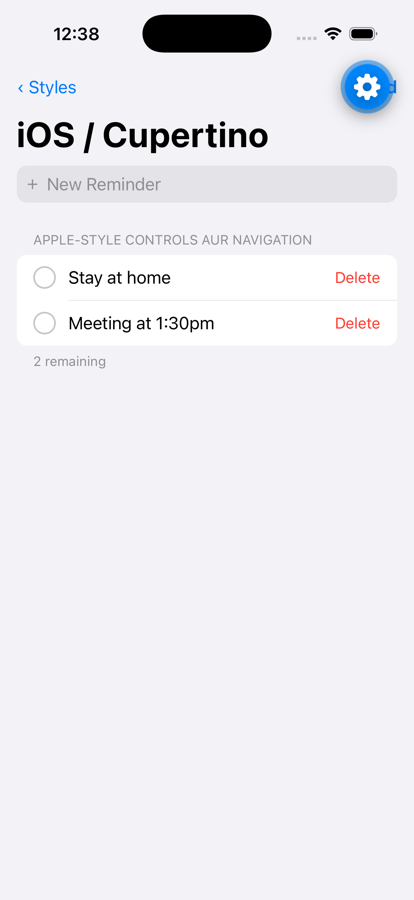
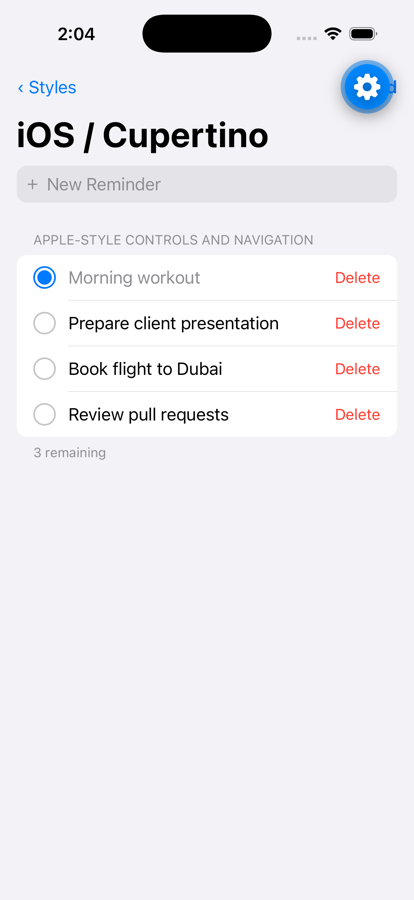
Translate code and UI text to English, refresh screenshots
Rewrite all code comments, UI strings and error messages in English, rename the app and packages, retake README screenshots with neutral demo data, and add a keyword-rich README header.

diff --git a/backend/server.js b/backend/server.js
@@ -1,20 +1,20 @@
 // API SERVER (Express)
-// Kaam: frontend se HTTP request aati hai -> yahan route match hota hai -> db.js se data -> JSON wapis.
+// Flow: the client sends an HTTP request -> a route matches it -> db.js reads/writes data -> JSON response.
 import express from 'express';
 import cors from 'cors';
 import * as db from './db.js';
 
 const app = express();
-app.use(cors());          // web frontend ko doosre port se call karne ki ijazat
-app.use(express.json());  // request body ka JSON parse karke req.body mein daal deta hai
+app.use(cors());          // allow web clients on other origins to call the API
+app.use(express.json());  // parse JSON request bodies into req.body
 
-// Har request ko terminal mein print karo — seekhte waqt bohat help karta hai
+// Log every request (handy while developing)
 app.use((req, _res, next) => {
   console.log(req.method, req.url, req.body ?? '');
   next();
 });
 
-// REST API: aik "resource" (todos) + HTTP methods = CRUD
+// REST API: one resource (todos) + HTTP methods = CRUD
 // GET    /todos      -> Read all
 // POST   /todos      -> Create
 // PATCH  /todos/:id  -> Update
@@ -26,24 +26,24 @@ app.get('/todos', (_req, res) => {
 
 app.post('/todos', (req, res) => {
   const title = req.body?.title?.trim();
-  if (!title) return res.status(400).json({ error: 'title zaroori hai' });
+  if (!title) return res.status(400).json({ error: 'title is required' });
   res.status(201).json(db.createTodo(title));
 });
 
 app.patch('/todos/:id', (req, res) => {
   const todo = db.updateTodo(Number(req.params.id), req.body ?? {});
-  if (!todo) return res.status(404).json({ error: 'todo nahi mila' });
+  if (!todo) return res.status(404).json({ error: 'todo not found' });
   res.json(todo);
 });
 
 app.delete('/todos/:id', (req, res) => {
   const ok = db.deleteTodo(Number(req.params.id));
-  if (!ok) return res.status(404).json({ error: 'todo nahi mila' });
+  if (!ok) return res.status(404).json({ error: 'todo not found' });
   res.status(204).end();
 });
 
 const PORT = process.env.PORT || 4000;
-// '0.0.0.0' taa ke same WiFi par phone (Expo Go) bhi connect kar sake
+// Bind to 0.0.0.0 so a phone on the same Wi-Fi (Expo Go) can connect
 app.listen(PORT, '0.0.0.0', () => {
-  console.log(`API chal rahi hai: http://localhost:${PORT}`);
+  console.log(`API running at http://localhost:${PORT}`);
 });

diff --git a/mobile/src/designs/index.js b/mobile/src/designs/index.js
@@ -1,4 +1,4 @@
-// Saare designs ki list — naya design add karna ho to file banao aur yahan aik line jor do
+// All available designs. To add one, create a file in this folder and add a line here.
 import Minimalist from './Minimalist';
 import Material from './Material';
 import Cupertino from './Cupertino';
@@ -9,12 +9,12 @@ import Neobrutalism from './Neobrutalism';
 import Skeuomorphism from './Skeuomorphism';
 
 export const DESIGNS = [
-  { id: 'minimalist', name: 'Minimalist', tagline: 'Simple, clean, kam elements', swatch: ['#FFFFFF', '#111111'], Component: Minimalist },
+  { id: 'minimalist', name: 'Minimalist', tagline: 'Simple, clean, fewer elements', swatch: ['#FFFFFF', '#111111'], Component: Minimalist },
   { id: 'material', name: 'Material Design', tagline: 'Google-style components', swatch: ['#6750A4', '#EADDFF'], Component: Material },
-  { id: 'cupertino', name: 'iOS / Cupertino', tagline: 'Apple-style controls aur navigation', swatch: ['#007AFF', '#F2F2F7'], Component: Cupertino },
+  { id: 'cupertino', name: 'iOS / Cupertino', tagline: 'Apple-style controls and navigation', swatch: ['#007AFF', '#F2F2F7'], Component: Cupertino },
   { id: 'glassmorphism', name: 'Glassmorphism', tagline: 'Transparent, frosted-glass effects', swatch: ['#8B5CF6', '#F472B6'], Component: Glassmorphism },
-  { id: 'neumorphism', name: 'Neumorphism', tagline: 'Soft, raised ya inset elements', swatch: ['#E4E9F0', '#A3B1C6'], Component: Neumorphism },
+  { id: 'neumorphism', name: 'Neumorphism', tagline: 'Soft, raised or inset elements', swatch: ['#E4E9F0', '#A3B1C6'], Component: Neumorphism },
   { id: 'brutalism', name: 'Brutalism', tagline: 'Bold typography, raw layouts', swatch: ['#000000', '#FFFFFF'], Component: Brutalism },
   { id: 'neobrutalism', name: 'Neobrutalism', tagline: 'Bold borders, bright colors, playful shadows', swatch: ['#FDE047', '#FF6B9D'], Component: Neobrutalism },
-  { id: 'skeuomorphism', name: 'Skeuomorphism', tagline: 'Real-world objects jaisa appearance', swatch: ['#7A4B2A', '#FFF6C9'], Component: Skeuomorphism },
+  { id: 'skeuomorphism', name: 'Skeuomorphism', tagline: 'Looks like real-world objects', swatch: ['#7A4B2A', '#FFF6C9'], Component: Skeuomorphism },
 ];

diff --git a/mobile/src/hooks/useTodos.js b/mobile/src/hooks/useTodos.js
@@ -1,15 +1,15 @@
-// SHARED LOGIC — har design screen yahi hook use karti hai.
-// Design alag alag hain, lekin backend se baat karne ka tareeqa aik hi hai.
+// SHARED LOGIC: every design screen uses this hook.
+// The designs differ, but they all talk to the backend the same way.
 import { useEffect, useState } from 'react';
 
-// ⚠ IMPORTANT: Phone par "localhost" = phone khud, aapka Mac nahi!
+// IMPORTANT: on a device, "localhost" means the device itself, not your computer.
 // - iOS Simulator:     http://localhost:4000
 // - Android Emulator:  http://10.0.2.2:4000
-// - Real phone (Expo Go, same WiFi): http://<Mac ka IP>:4000
-//   Mac ka IP: terminal mein `ipconfig getifaddr en0`
+// - Real phone (Expo Go, same WiFi): http://<your-computer-IP>:4000
+//   On macOS, find your IP with `ipconfig getifaddr en0`
 const API_URL = 'http://localhost:4000';
 
-// Saari network calls aik jagah — screen ko pata nahi hona chahiye ke fetch kaise hota hai
+// All network calls live here so screens don't need to know how fetching works
 const api = {
   async list() {
     const res = await fetch(`${API_URL}/todos`);
@@ -43,11 +43,11 @@ export function useTodos() {
   const [loading, setLoading] = useState(true);
   const [error, setError] = useState(null);
 
-  // Screen khulte hi server se todos lao
+  // Load todos from the server when the screen mounts
   useEffect(() => {
     api.list()
       .then(setTodos)
-      .catch(() => setError('Server se connect nahi ho saka'))
+      .catch(() => setError('Could not connect to the server'))
       .finally(() => setLoading(false));
   }, []);
 
@@ -55,7 +55,7 @@ export function useTodos() {
     if (!text.trim()) return;
     try {
       const created = await api.create(text);
-      setTodos((prev) => [created, ...prev]); // server ne jo wapis bheja (id ke sath) wohi list mein daalo
+      setTodos((prev) => [created, ...prev]); // use the server's response (with its id)
       setText('');
       setError(null);
     } catch (e) {

diff --git a/backend/db.js b/backend/db.js
@@ -1,23 +1,23 @@
 // DATABASE LAYER
-// Data yahan store hota hai: project ke "database/todos.db" file mein (SQLite database).
-// SQLite = poori database aik file mein. Koi alag server install nahi karna parta.
+// Data is stored in the project's "database/todos.db" file (SQLite).
+// SQLite keeps the whole database in a single file, so no separate DB server is needed.
 import { DatabaseSync } from 'node:sqlite';
 import { fileURLToPath } from 'node:url';
 
-// Path is file ke hisaab se — server kisi bhi folder se chalao, database wahi rahegi
+// Resolve the path relative to this file so it works no matter where the server is started
 const db = new DatabaseSync(fileURLToPath(new URL('../database/todos.db', import.meta.url)));
 
-// Table banao (agar pehle se nahi bani). Table = Excel sheet jaisi: columns + rows.
+// Create the table on first run.
 db.exec(`
   CREATE TABLE IF NOT EXISTS todos (
     id         INTEGER PRIMARY KEY AUTOINCREMENT,
     title      TEXT    NOT NULL,
-    done       INTEGER NOT NULL DEFAULT 0,          -- SQLite mein boolean nahi, 0/1 use karte hain
+    done       INTEGER NOT NULL DEFAULT 0,          -- SQLite has no boolean type, so 0/1 is used
     created_at TEXT    NOT NULL DEFAULT (datetime('now'))
   )
 `);
 
-// Database se row aati hai { done: 0 } — frontend ko { done: false } chahiye
+// Rows come back as { done: 0 }; the client expects { done: false }
 const toTodo = (row) => row && { ...row, done: Boolean(row.done) };
 
 export function getAllTodos() {
@@ -29,7 +29,7 @@ export function getTodo(id) {
 }
 
 export function createTodo(title) {
-  // "?" placeholder — kabhi bhi user ka text seedha SQL string mein mat jorna (SQL injection)
+  // Use "?" placeholders; never concatenate user input into SQL (prevents SQL injection)
   const result = db.prepare('INSERT INTO todos (title) VALUES (?)').run(title);
   return getTodo(result.lastInsertRowid);
 }

diff --git a/mobile/src/designs/Glassmorphism.js b/mobile/src/designs/Glassmorphism.js
@@ -1,17 +1,17 @@
-// GLASSMORPHISM — rangeen background ke upar dhundla (blur) shaffaf sheesha, patla safed border
+// GLASSMORPHISM: frosted, translucent glass panels with thin white borders over a colorful background
 import { ActivityIndicator, FlatList, Pressable, StyleSheet, Text, TextInput, View } from 'react-native';
 import { SafeAreaView } from 'react-native-safe-area-context';
 import { StatusBar } from 'expo-status-bar';
 import { BlurView } from 'expo-blur';
 
-// Glass tabhi achha lagta hai jab peeche kuch rangeen ho — is liye yeh blobs
+// Glass needs something colorful behind it, hence these blobs
 function Background() {
   return (
     <View style={StyleSheet.absoluteFill}>
       <View style={[styles.blob, { backgroundColor: '#8B5CF6', top: -60, left: -80, width: 300, height: 300 }]} />
       <View style={[styles.blob, { backgroundColor: '#F472B6', top: 260, right: -100, width: 320, height: 320 }]} />
       <View style={[styles.blob, { backgroundColor: '#22D3EE', bottom: -80, left: -40, width: 280, height: 280 }]} />
-      {/* Blobs ke kinare naram karne ke liye poore background par blur */}
+      {/* Blur the whole background to soften the blob edges */}
       <BlurView intensity={80} tint="dark" style={StyleSheet.absoluteFill} />
     </View>
   );
@@ -95,7 +95,7 @@ const styles = StyleSheet.create({
   root: { flex: 1, backgroundColor: '#1E1B4B' },
   blob: { position: 'absolute', borderRadius: 999, opacity: 0.85 },
   glass: {
-    overflow: 'hidden', // BlurView ko rounded corners ke liye zaroori
+    overflow: 'hidden', // required for rounded corners on BlurView
     borderRadius: 22,
     borderWidth: 1,
     borderColor: 'rgba(255,255,255,0.45)',

diff --git a/mobile/src/designs/Skeuomorphism.js b/mobile/src/designs/Skeuomorphism.js
@@ -1,5 +1,5 @@
-// SKEUOMORPHISM — asli cheez jaisa: chamray (leather) ka cover, silai (stitching), peela lined notepad,
-// laal margin line, haath ki likhai jaisa font, aur chamakdaar ubhra hua button.
+// SKEUOMORPHISM: mimics real objects with a stitched leather cover, a yellow ruled notepad,
+// a red margin line, handwriting-style font, and a glossy raised button.
 import { ActivityIndicator, Platform, Pressable, ScrollView, StyleSheet, Text, TextInput, View } from 'react-native';
 import { SafeAreaView } from 'react-native-safe-area-context';
 import { StatusBar } from 'expo-status-bar';
@@ -23,7 +23,7 @@ export default function Skeuomorphism({ todos, text, setText, loading, error, ad
     <View style={styles.desk}>
       <StatusBar style="light" />
       <SafeAreaView style={{ flex: 1 }}>
-        {/* Leather cover — dashed border = silai */}
+        {/* Leather cover; the dashed border is the stitching */}
         <View style={styles.cover}>
           <View style={styles.stitching}>
             <Pressable onPress={onBack} style={{ alignSelf: 'flex-start' }}>
@@ -88,7 +88,7 @@ export default function Skeuomorphism({ todos, text, setText, loading, error, ad
                 </View>
               ))
             )}
-            {/* Khaali lines — asli notepad ki tarah */}
+            {/* Empty ruled lines, like a real notepad */}
             {Array.from({ length: 8 }).map((_, i) => (
               <View key={`blank-${i}`} style={styles.line} />
             ))}

diff --git a/mobile/src/designs/Neobrutalism.js b/mobile/src/designs/Neobrutalism.js
@@ -1,16 +1,16 @@
-// NEOBRUTALISM — mote kaale border, chamkeele rang, aur "hard" shadow (blur nahi, seedha offset).
-// Button dabao to shadow gayab aur button us jagah khisak jata hai — playful feel.
+// NEOBRUTALISM: thick black borders, bright colors, and "hard" offset shadows with no blur.
+// Pressing a button removes its shadow and shifts it into place for a playful, tactile feel.
 import { ActivityIndicator, FlatList, Pressable, StyleSheet, Text, TextInput, View } from 'react-native';
 import { SafeAreaView } from 'react-native-safe-area-context';
 import { StatusBar } from 'expo-status-bar';
 
 const N = { bg: '#FDE047', pink: '#FF6B9D', mint: '#7CF5C4', blue: '#7DD3FC', card: '#FFFFFF', ink: '#000000' };
 
-// Hard shadow: offset hai, blur 0
+// Hard shadow: offset only, zero blur
 const hard = (d = 5) => ({ boxShadow: `${d}px ${d}px 0px ${N.ink}` });
 const pressedShift = (d = 5) => ({ transform: [{ translateX: d }, { translateY: d }], boxShadow: 'none' });
 
-// Har todo ko alag rang — playful
+// Cycle through colors for each todo
 const CARD_COLORS = ['#FFFFFF', '#C4B5FD', '#7DD3FC', '#FDBA74'];
 
 export default function Neobrutalism({ todos, text, setText, loading, error, addTodo, toggleTodo, deleteTodo, remaining, name, tagline, onBack }) {

diff --git a/mobile/src/designs/Neumorphism.js b/mobile/src/designs/Neumorphism.js
@@ -1,6 +1,6 @@
-// NEUMORPHISM: har cheez background ke rang ki, sirf shadows se shape banti hai.
-// Raised = upar-left safed roshni + neeche-right gehri shadow (bahar ubhra hua)
-// Inset  = wohi do shadows andar ki taraf (dabaya hua)
+// NEUMORPHISM: every element shares the background color; shape comes only from shadows.
+// Raised = light highlight top-left + dark shadow bottom-right
+// Inset  = the same two shadows drawn inside (pressed in)
 import { ActivityIndicator, FlatList, Pressable, StyleSheet, Text, TextInput, View } from 'react-native';
 import { SafeAreaView } from 'react-native-safe-area-context';
 import { StatusBar } from 'expo-status-bar';
@@ -70,7 +70,7 @@ export default function Neumorphism({ todos, text, setText, loading, error, addT
           data={todos}
           keyExtractor={(item) => String(item.id)}
           keyboardShouldPersistTaps="handled"
-          // Shadows bahar tak phailti hain — padding na ho to kinare kat jaate hain
+          // Shadows extend outside each card; padding keeps them from being clipped
           contentContainerStyle={styles.list}
           ListEmptyComponent={<Text style={styles.empty}>Nothing to do</Text>}
           renderItem={({ item }) => (

diff --git a/mobile/src/app/index.js b/mobile/src/app/index.js
@@ -1,4 +1,4 @@
-// HOME SCREEN — 8 UI styles ki list. Tap karo to us style ki Todo screen khulti hai.
+// HOME SCREEN: lists the 8 UI styles. Tapping one opens the Todo screen in that style.
 import { router } from 'expo-router';
 import { FlatList, Pressable, StyleSheet, Text, View } from 'react-native';
 import { SafeAreaView } from 'react-native-safe-area-context';
@@ -16,11 +16,11 @@ export default function Home() {
         ListHeaderComponent={
           <View style={styles.header}>
             <Text style={styles.heading}>UI Styles</Text>
-            <Text style={styles.sub}>Aik hi Todo app, 8 alag designs</Text>
+            <Text style={styles.sub}>One Todo app, 8 design styles</Text>
           </View>
         }
         renderItem={({ item, index }) => (
-          // router.push("/material") -> src/app/[style].js khulegi, style = "material"
+          // router.push("/material") opens src/app/[style].js with style = "material"
           <Pressable
             onPress={() => router.push(`/${item.id}`)}
             style={({ pressed }) => [styles.row, pressed && { opacity: 0.6 }]}

diff --git a/mobile/src/designs/Cupertino.js b/mobile/src/designs/Cupertino.js
@@ -1,4 +1,4 @@
-// iOS / CUPERTINO — large title, "‹ Back" nav button, grouped inset list, system blue, search-style field
+// iOS / CUPERTINO: large title, "‹ Back" nav button, grouped inset list, system blue, search-style field
 import { ActivityIndicator, Pressable, ScrollView, StyleSheet, Text, TextInput, View } from 'react-native';
 import { SafeAreaView } from 'react-native-safe-area-context';
 import { StatusBar } from 'expo-status-bar';
@@ -66,7 +66,7 @@ export default function Cupertino({ todos, text, setText, loading, error, addTod
                     <Text style={styles.delete}>Delete</Text>
                   </Pressable>
                 </Pressable>
-                {/* iOS separators text ke neeche se shuru hote hain, kinare se nahi */}
+                {/* iOS separators are inset to align with the text, not the cell edge */}
                 {i < todos.length - 1 && <View style={styles.separator} />}
               </View>
             ))}

diff --git a/mobile/src/app/[style].js b/mobile/src/app/[style].js
@@ -1,5 +1,5 @@
-// DYNAMIC ROUTE — /minimalist, /material, /neumorphism ... sab yahi file handle karti hai.
-// URL ka hissa ([style]) useLocalSearchParams se milta hai.
+// DYNAMIC ROUTE: /minimalist, /material, /neumorphism ... are all handled by this file.
+// The [style] URL segment comes from useLocalSearchParams.
 import { router, useLocalSearchParams } from 'expo-router';
 import { Text } from 'react-native';
 import { DESIGNS } from '../designs';
@@ -10,7 +10,7 @@ export default function StyleScreen() {
   const todo = useTodos();
   const design = DESIGNS.find((d) => d.id === style);
 
-  if (!design) return <Text style={{ marginTop: 100, textAlign: 'center' }}>Design nahi mila</Text>;
+  if (!design) return <Text style={{ marginTop: 100, textAlign: 'center' }}>Design not found</Text>;
 
   const Screen = design.Component;
   return <Screen {...todo} name={design.name} tagline={design.tagline} onBack={() => router.back()} />;

diff --git a/mobile/src/designs/Material.js b/mobile/src/designs/Material.js
@@ -1,4 +1,4 @@
-// MATERIAL DESIGN (Material 3) — top app bar, outlined text field, cards, FAB, purple "primary" color
+// MATERIAL DESIGN (Material 3): top app bar, outlined text field, cards, FAB, purple "primary" color
 import { ActivityIndicator, FlatList, Pressable, StyleSheet, Text, TextInput, View } from 'react-native';
 import { SafeAreaView } from 'react-native-safe-area-context';
 import { StatusBar } from 'expo-status-bar';
@@ -15,7 +15,7 @@ const M = {
   error: '#B3261E',
 };
 
-// Material "elevation" = halki si neeche ki shadow
+// Material "elevation" levels as soft drop shadows
 const elevation1 = { boxShadow: '0px 1px 3px rgba(0,0,0,0.15), 0px 1px 2px rgba(0,0,0,0.3)' };
 const elevation3 = { boxShadow: '0px 4px 8px rgba(0,0,0,0.15), 0px 1px 3px rgba(0,0,0,0.3)' };
 
